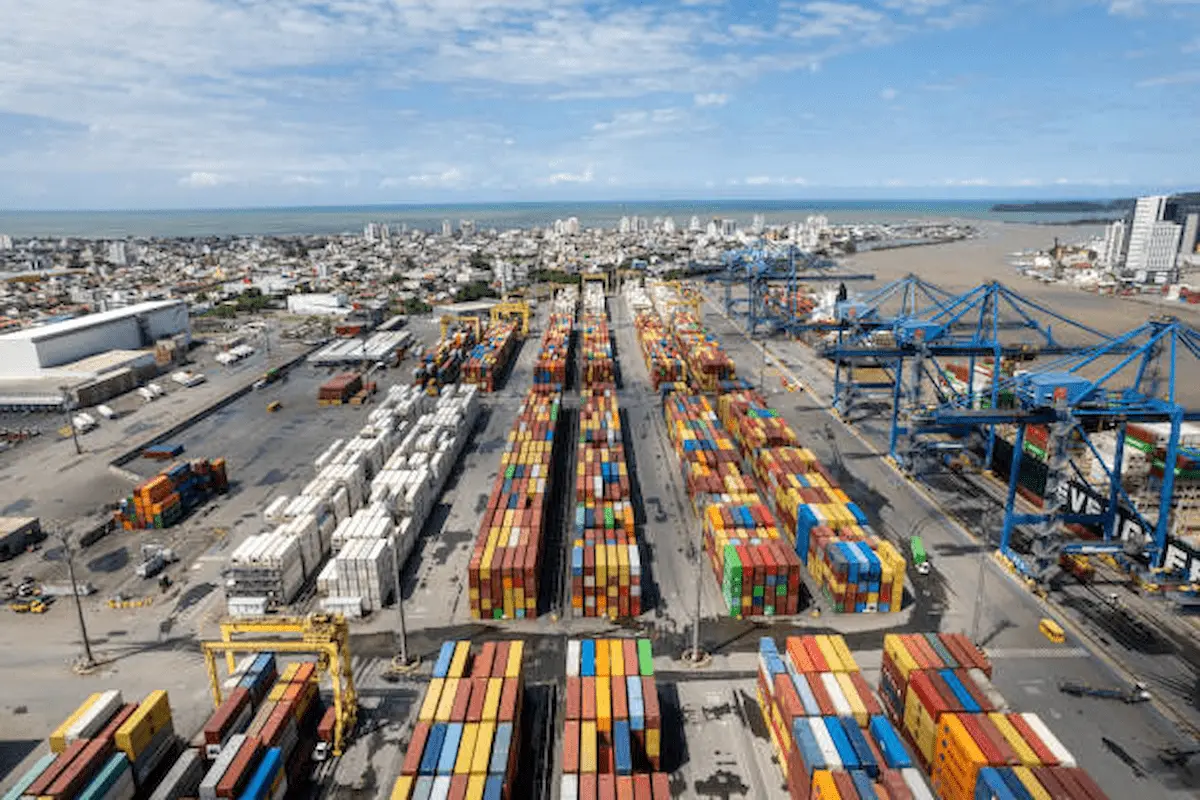
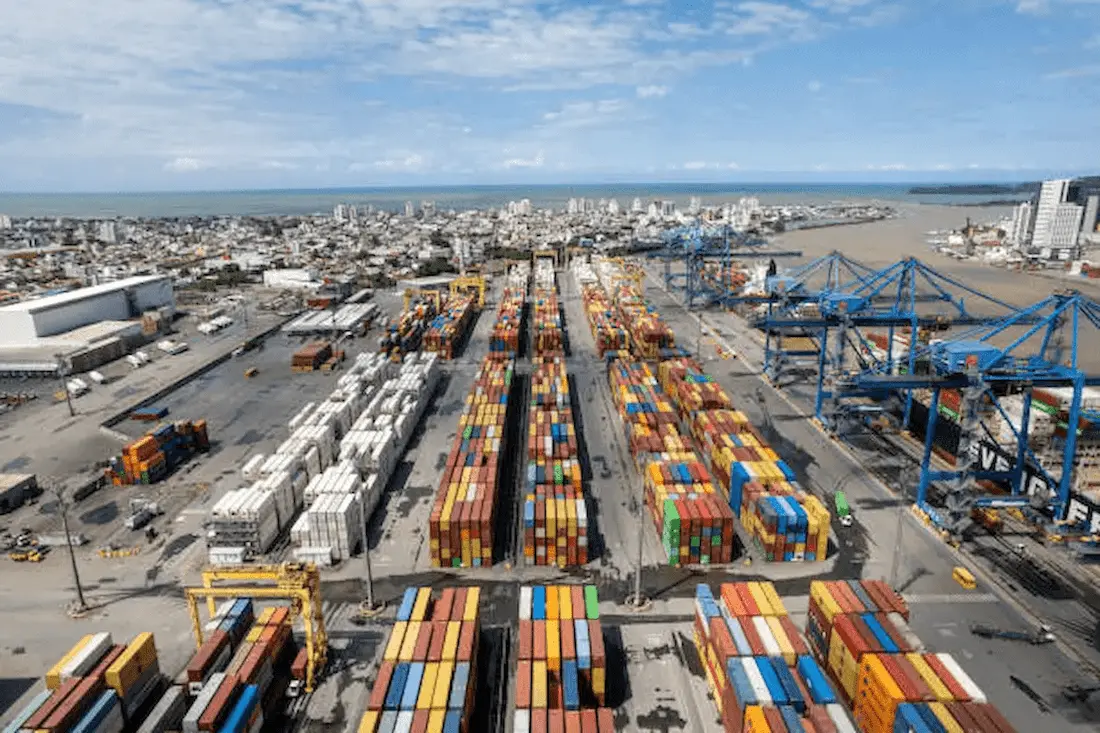
fixed image size

diff --git a/chamber/index.html b/chamber/index.html
@@ -53,7 +53,7 @@
     </header>
 
     <main class="home-grid">
-        
+        <h1 class="page-title">Navegantes Chamber of Commerce</h1>
         <section class="hero">
             <picture>
                 <source media="(min-width: 768px)" srcset="images/porto-large.webp">
@@ -87,7 +87,7 @@
             <h2>Current Weather</h2>
             <div id="current-weather">
                 <div class="weather-info">
-                    <img id="weather-icon" src="https://openweathermap.org/img/wn/10d@2x.png" alt="" width="50" height="50">
+                    <img id="weather-icon" src="https://openweathermap.org/img/wn/10d@2x.png" alt="Weather condition icon" width="50" height="50">
                     <span id="current-temp">--°C</span>
                 </div>
                 <p id="weather-desc">Loading weather...</p>
